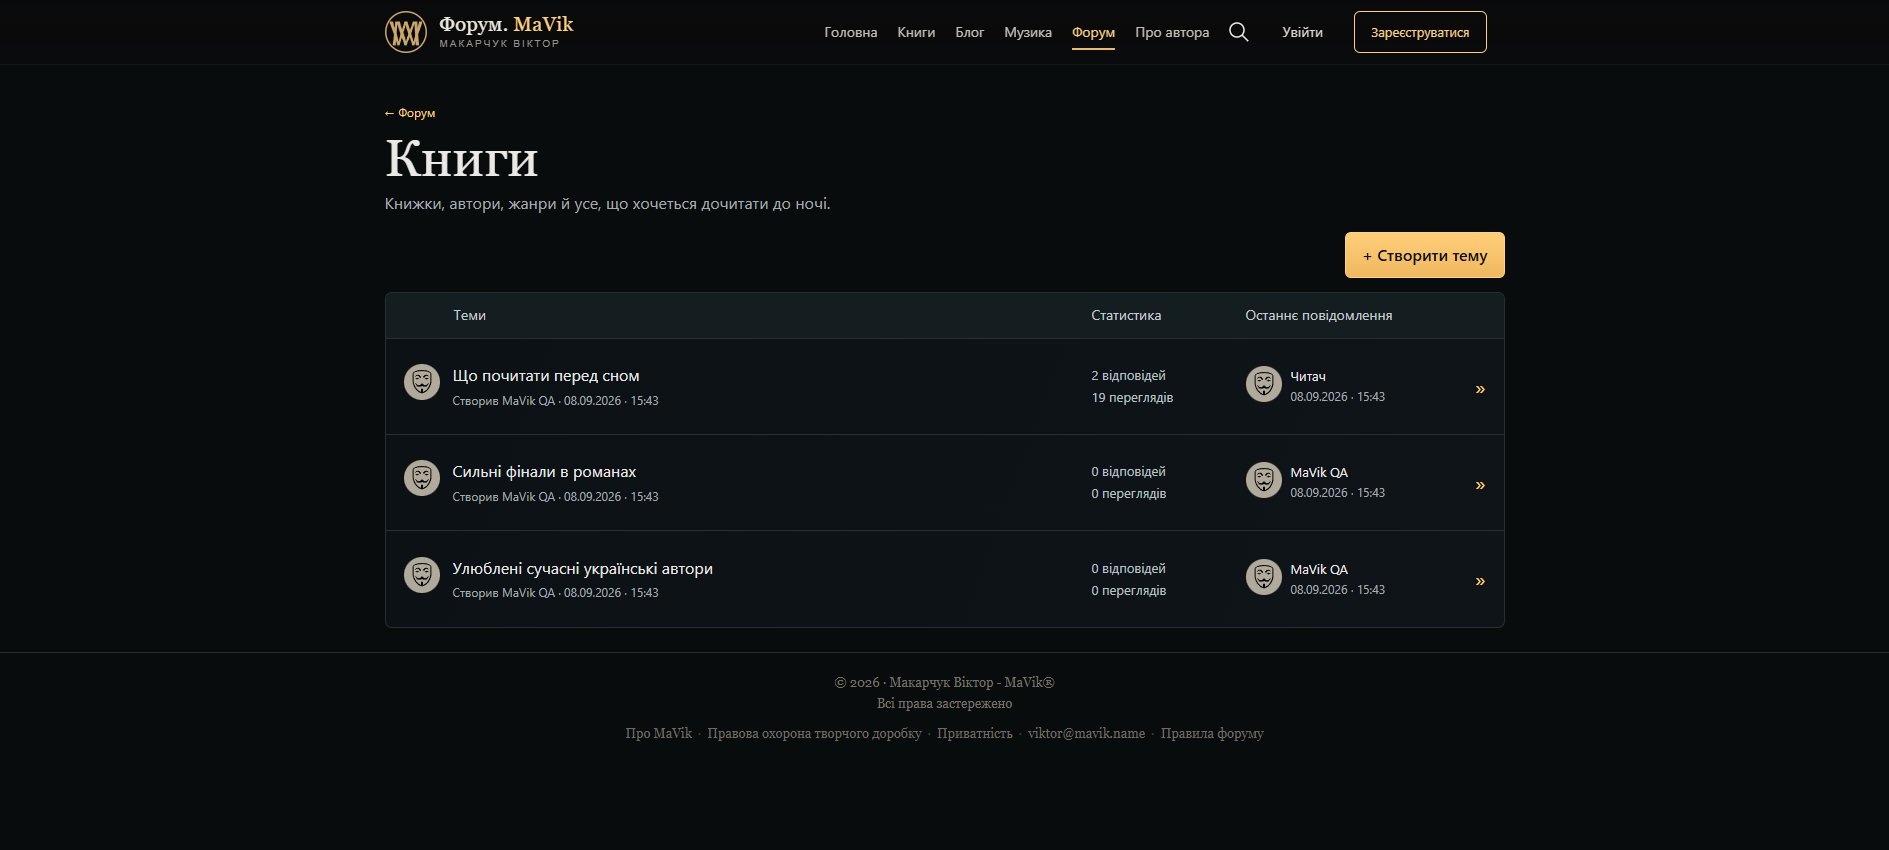
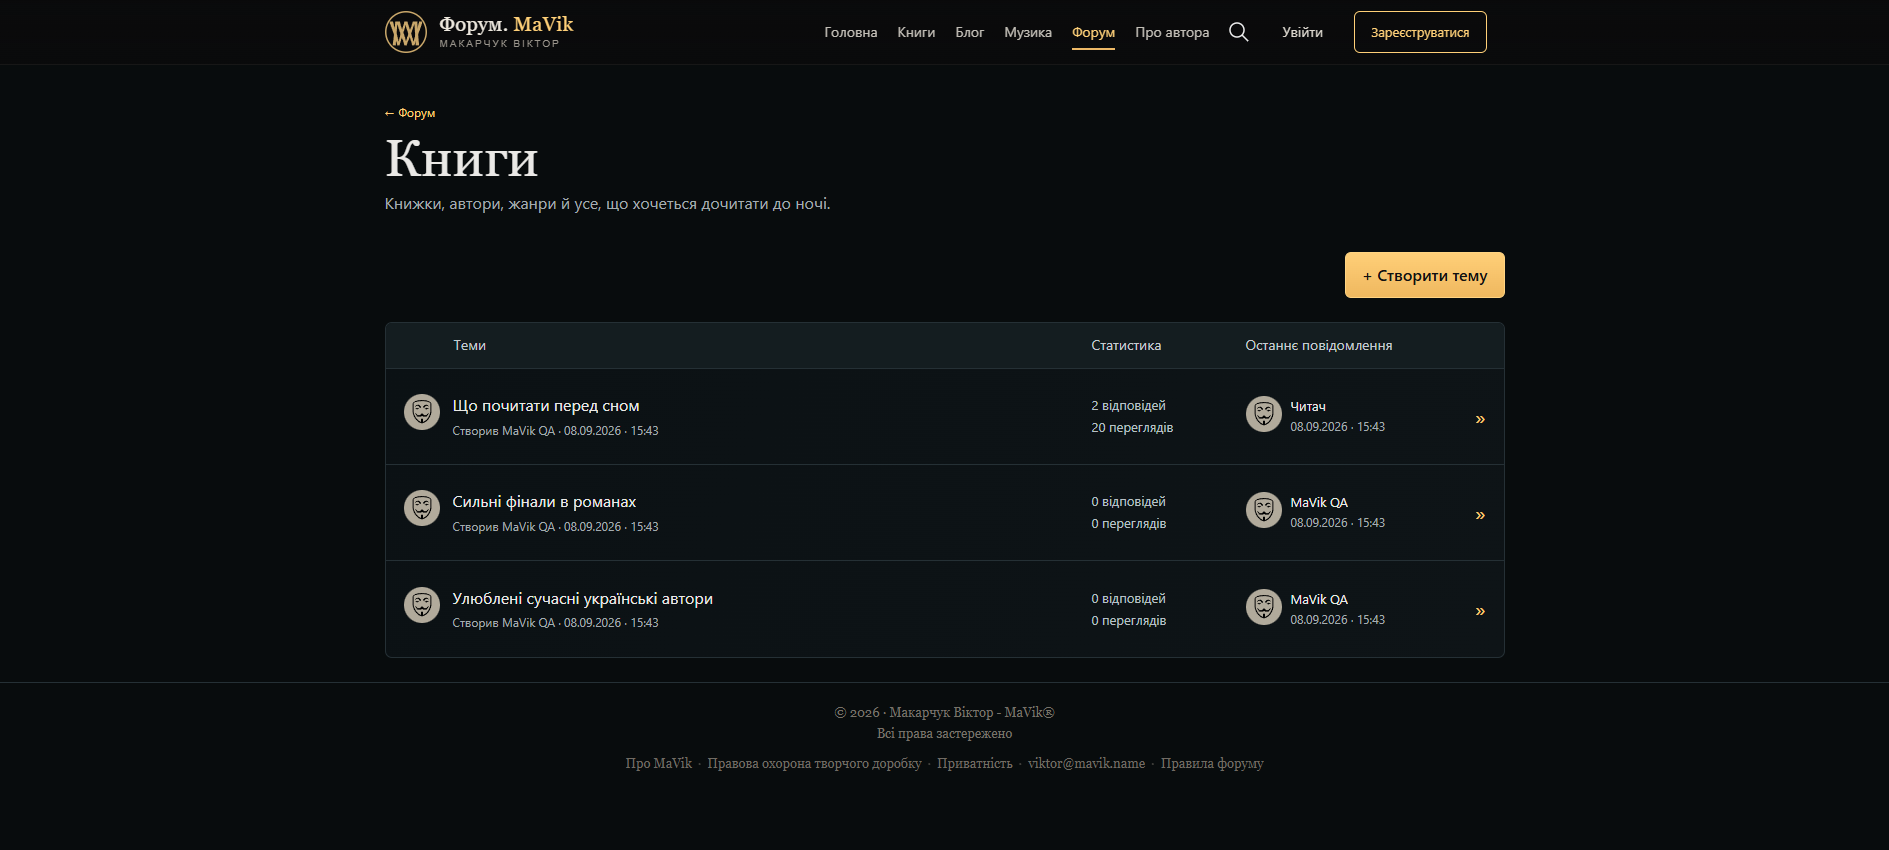
Give category create button breathing room and refresh stylesheet cache

diff --git a/mavik-sklad/files/forum/releases/0.9.1/source/assets/release.css b/mavik-sklad/files/forum/releases/0.9.1/source/assets/release.css
@@ -122,4 +122,4 @@ body{background:var(--bg);color:var(--text)}
 /* Photographic background only: reference controls must never appear behind live controls. */
 @media(min-width:781px){.forum-hero:before{background-image:linear-gradient(90deg,#080c0d,transparent 30%),url('/assets/forum-hero.jpg');background-size:cover;background-position:center;background-repeat:no-repeat}}
 
-.category-toolbar{display:flex;justify-content:flex-end;margin:0 0 14px}.category-toolbar .btn{min-height:44px}
+.category-toolbar{display:flex;justify-content:flex-end;width:100%;margin:20px 0 24px}.category-toolbar .btn{min-height:44px}

diff --git a/mavik-sklad/files/forum/releases/0.9.1/source/app/bootstrap.php b/mavik-sklad/files/forum/releases/0.9.1/source/app/bootstrap.php
@@ -148,7 +148,7 @@ function forum_header(string $title): void {
 <title><?=e($title)?> — Форум MaVik</title>
 <link rel="icon" href="/favicon.ico"><link rel="apple-touch-icon" href="/assets/app/apple-touch-icon.png"><link rel="manifest" href="/manifest.webmanifest">
 <meta name="theme-color" content="#0b0b0c">
-<link rel="stylesheet" href="/assets/style.css?v=0.9"><link rel="stylesheet" href="/assets/release.css?v=0.9.1">
+<link rel="stylesheet" href="/assets/style.css?v=0.9"><link rel="stylesheet" href="/assets/release.css?v=0.9.1.2">
 <?php if ($maintenance): ?><meta name="robots" content="noindex,nofollow,noarchive"><?php endif; ?>
 </head>
 <body class="<?=basename($_SERVER['SCRIPT_NAME']??'')==='topic.php'?'topic-page':'forum-page'?>">

diff --git a/mavik-sklad/files/forum/releases/0.9.1/RELEASE-NOTES.md b/mavik-sklad/files/forum/releases/0.9.1/RELEASE-NOTES.md
@@ -2,6 +2,7 @@
 
 - Вхід зберігається 30 днів від останнього відвідування, включно з перезапуском браузера. Сесії ізольовані у storage/sessions; не видаляйте цей каталог під час оновлення. Після переходу на нове сховище потрібно один раз увійти повторно. Вихід і блокування облікового запису припиняють доступ.
 - Застосовано новий зразок подачі списку тем: аватар, тема й автор/дата створення; статистика; аватар, автор і дата останнього повідомлення. Кольори MaVik збережені.
+- Кнопка категорії вирівняна праворуч, із відступами 20px зверху та 24px до таблиці; оновлено ключ кешу CSS.
 - На сторінках категорій додано «+ Створити тему» з попереднім вибором поточної категорії у формі.
 - Фон головної замінено чистим фото без намальованої кнопки під справжньою «Створити тему».
 - Прибрано дубль входу в адмінку: у шапці «Профіль», у привітанні адміністратора «Адмінка форуму».

diff --git a/mavik-sklad/files/forum/releases/0.9.1/source/README-0.9.1.md b/mavik-sklad/files/forum/releases/0.9.1/source/README-0.9.1.md
@@ -2,6 +2,7 @@
 
 - Вхід зберігається 30 днів від останнього відвідування, включно з перезапуском браузера. Сесії ізольовані у storage/sessions; не видаляйте цей каталог під час оновлення. Після переходу на нове сховище потрібно один раз увійти повторно. Вихід і блокування облікового запису припиняють доступ.
 - Застосовано новий зразок подачі списку тем: аватар, тема й автор/дата створення; статистика; аватар, автор і дата останнього повідомлення. Кольори MaVik збережені.
+- Кнопка категорії вирівняна праворуч, із відступами 20px зверху та 24px до таблиці; оновлено ключ кешу CSS.
 - На сторінках категорій додано «+ Створити тему» з попереднім вибором поточної категорії у формі.
 - Фон головної замінено чистим фото без намальованої кнопки під справжньою «Створити тему».
 - Прибрано дубль входу в адмінку: у шапці «Профіль», у привітанні адміністратора «Адмінка форуму».
